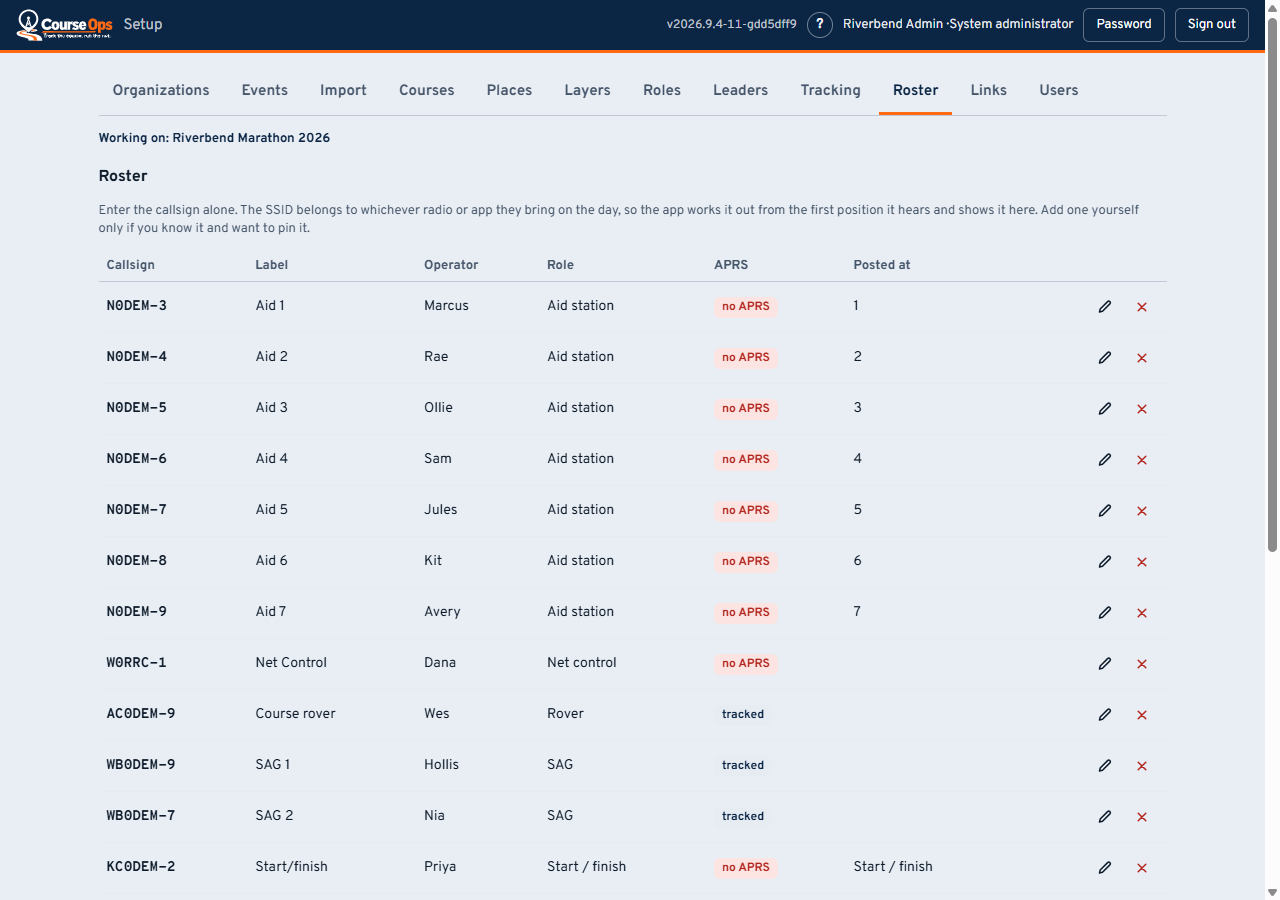
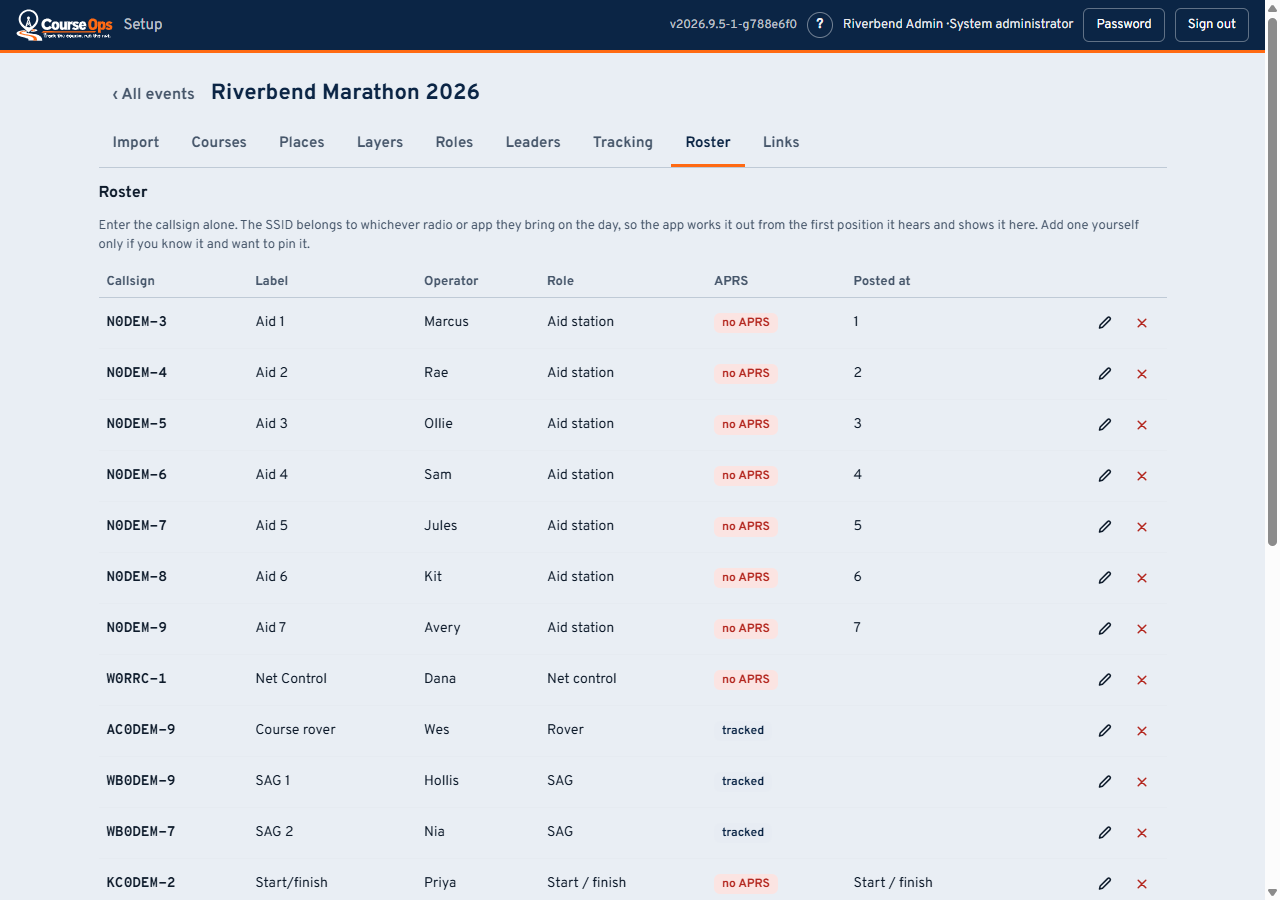
feat: event row actions as glyphs; re-shoot the setup screenshots
Configure, report, edit and delete on the Events list were a button, a
link and two icons; they are four icon buttons now, each labelled with
the event's name. The heading inside an event lines up with the tab
text. Eleven guide screenshots re-shot for the two-level layout.

Claude-Session: https://claude.ai/code/session_01QkbtsMnQEe8HZ7xyxXHYHB

diff --git a/src/courseops/static/setup.js b/src/courseops/static/setup.js
@@ -408,6 +408,17 @@ const ICONS = {
   // A box with an arrow leaving it: "opens somewhere else".
   open: ['<path d="M7 3.4H4.2a1.6 1.6 0 0 0-1.6 1.6v6.8a1.6 1.6 0 0 0 1.6 1.6H11'
        + 'a1.6 1.6 0 0 0 1.6-1.6V9M9.4 2.6h4v4M13.4 2.6L7.6 8.4"/>', 'Open'],
+  // Three sliders: "settings", the way every phone draws it. The Events
+  // list's way into an event - the row's actions are all glyphs so the
+  // four read as one set rather than a button, a link and two icons.
+  configure: ['<path d="M2.4 4.2h11.2M2.4 8h11.2M2.4 11.8h11.2"/>'
+            + '<circle cx="10.4" cy="4.2" r="1.7" fill="currentColor" stroke="none"/>'
+            + '<circle cx="5.6" cy="8" r="1.7" fill="currentColor" stroke="none"/>'
+            + '<circle cx="9" cy="11.8" r="1.7" fill="currentColor" stroke="none"/>',
+            'Configure'],
+  // A page with lines on it: the after-event report.
+  report: ['<path d="M4.2 2.6h5.2l3 3v7.8H4.2z M9.4 2.6v3h3"/>'
+         + '<path d="M6.2 8.4h3.6M6.2 10.8h3.6"/>', 'After-event report'],
 };
 
 /* The documented what3words URL: the three words after the host. The form
@@ -657,12 +668,10 @@ async function loadEvents() {
         <td>${e.counts.pois}</td>
         <td>${e.counts.roster}</td>
         <td class="actions">
-          <button type="button" class="primary" data-pick="${e.id}"
-            title="Course, places, roster and links for ${esc(e.name)}"
-            >Configure &rsaquo;</button>
-          <a class="report-link" href="/setup/events/${e.id}/report" target="_blank"
-             rel="noopener" title="Pickups, notes and maps to hand the race lead afterwards"
-             >After-event report</a>
+          ${iconBtn('configure', {'data-pick': e.id},
+                    `Configure ${e.name}: course, places, roster, links`)}
+          ${iconLink('report', {href: `/setup/events/${e.id}/report`},
+                     `After-event report for ${e.name}`)}
           ${iconBtn('edit', {'data-edite': e.id}, `Edit ${e.name}`)}
           ${S.user.may_create_events
             ? iconBtn('remove', {'data-del': e.id}, `Delete ${e.name}`) : ''}

diff --git a/src/courseops/static/setup.css b/src/courseops/static/setup.css
@@ -84,6 +84,7 @@ body.setup #brand img { width: auto; height: 32px; }
   align-items: baseline;
   gap: 4px 16px;
   margin: 2px 0 6px;
+  padding: 0 14px;   /* the tabs' own padding, so the heading lines up with their text */
 }
 #event-head h1 {
   margin: 0;
@@ -262,8 +263,6 @@ table.grid th {
 table.grid td { padding: 8px; border-bottom: 1px solid var(--hairline); vertical-align: middle; }
 table.grid tr:last-child td { border-bottom: 0; }
 table.grid .actions { text-align: right; white-space: nowrap; }
-/* A text link, not an icon: it opens a page rather than acting on the row. */
-table.grid .report-link { margin-right: 8px; font-weight: 600; color: var(--navy-700); }
 /* Icon buttons are excluded for the same reason as the panel rule above:
    this one is a class and two elements, so its 10px of horizontal padding
    beat `.icon-btn`'s zero and squeezed a 16px glyph into a 14px content
@@ -525,7 +524,7 @@ a.icon-btn[hidden] { display: none; }
     scroll-padding: 0 16px;
   }
   #tabs::-webkit-scrollbar, #event-tabs::-webkit-scrollbar { display: none; }
-  #event-head { flex-direction: column; align-items: flex-start; gap: 0; }
+  #event-head { flex-direction: column; align-items: flex-start; gap: 0; padding: 0 12px; }
   #event-head h1 { font-size: 19px; }
   .tab { flex: none; padding: 0 12px; }
 

diff --git a/src/courseops/guides/setup.md b/src/courseops/guides/setup.md
@@ -20,12 +20,12 @@ labelled - so a callsign can be fixed from the car park on race morning.
 > 3. [Race week and after](setup-race-week.md) - tracking, the rehearsal, the report
 > 4. [Making it yours](setup-ideas.md) - layers, roles, and what else this can do
 
-![The Events tab: one row per event, with courses, places and roster counts, and Configure](images/setup-events.png)
+![The Events tab: one row per event, with courses, places and roster counts, and four icon buttons](images/setup-events.png)
 
 The setup screen has two levels. **Outside an event** there are three tabs -
 Organizations, Events and Users - which belong to the installation. **Inside
-an event**, opened with **Configure** on the Events list, the event's name is
-the heading, **‹ All events** takes you back out, and the tabs below it -
+an event**, opened with the sliders button (**Configure**) on its row of the
+Events list, the event's name is the heading, **‹ All events** takes you back out, and the tabs below it -
 Import, Courses, Places and the rest - all belong to that one event. They run
 roughly in the order you will use them. If your club has a single event it
 opens on its own when you sign in.

diff --git a/CHANGELOG.md b/CHANGELOG.md
@@ -19,13 +19,15 @@ month, PATCH counting releases in that month from 0. Before that they were
   whether it was working on one at all, was a line of small text above the
   panel that scrolled away, and a second event made it genuinely confusing.
   Now Organizations, Events and Users are the only tabs outside an event;
-  **Configure** on the Events list opens one, with its name as the heading,
+  **Configure** (the sliders glyph; the row's four actions - configure,
+  report, edit, delete - are all icon buttons now, where they were a button,
+  a link and two icons) opens one, with its name as the heading,
   **‹ All events** as the way back and the nine event tabs beneath. The
   hash carries the place (`#events/<slug>/roster`), so a reload or a
   bookmark lands back inside the same event on the same tab, and Back is
   "out of this event". `gateOnEvent` and the nine "pick an event" notes are
   gone: an event tab cannot be reached without an event. Creating an event
-  opens it on Import.
+  opens it on Import. Eleven guide screenshots re-shot.
 
 ### Fixed
 
